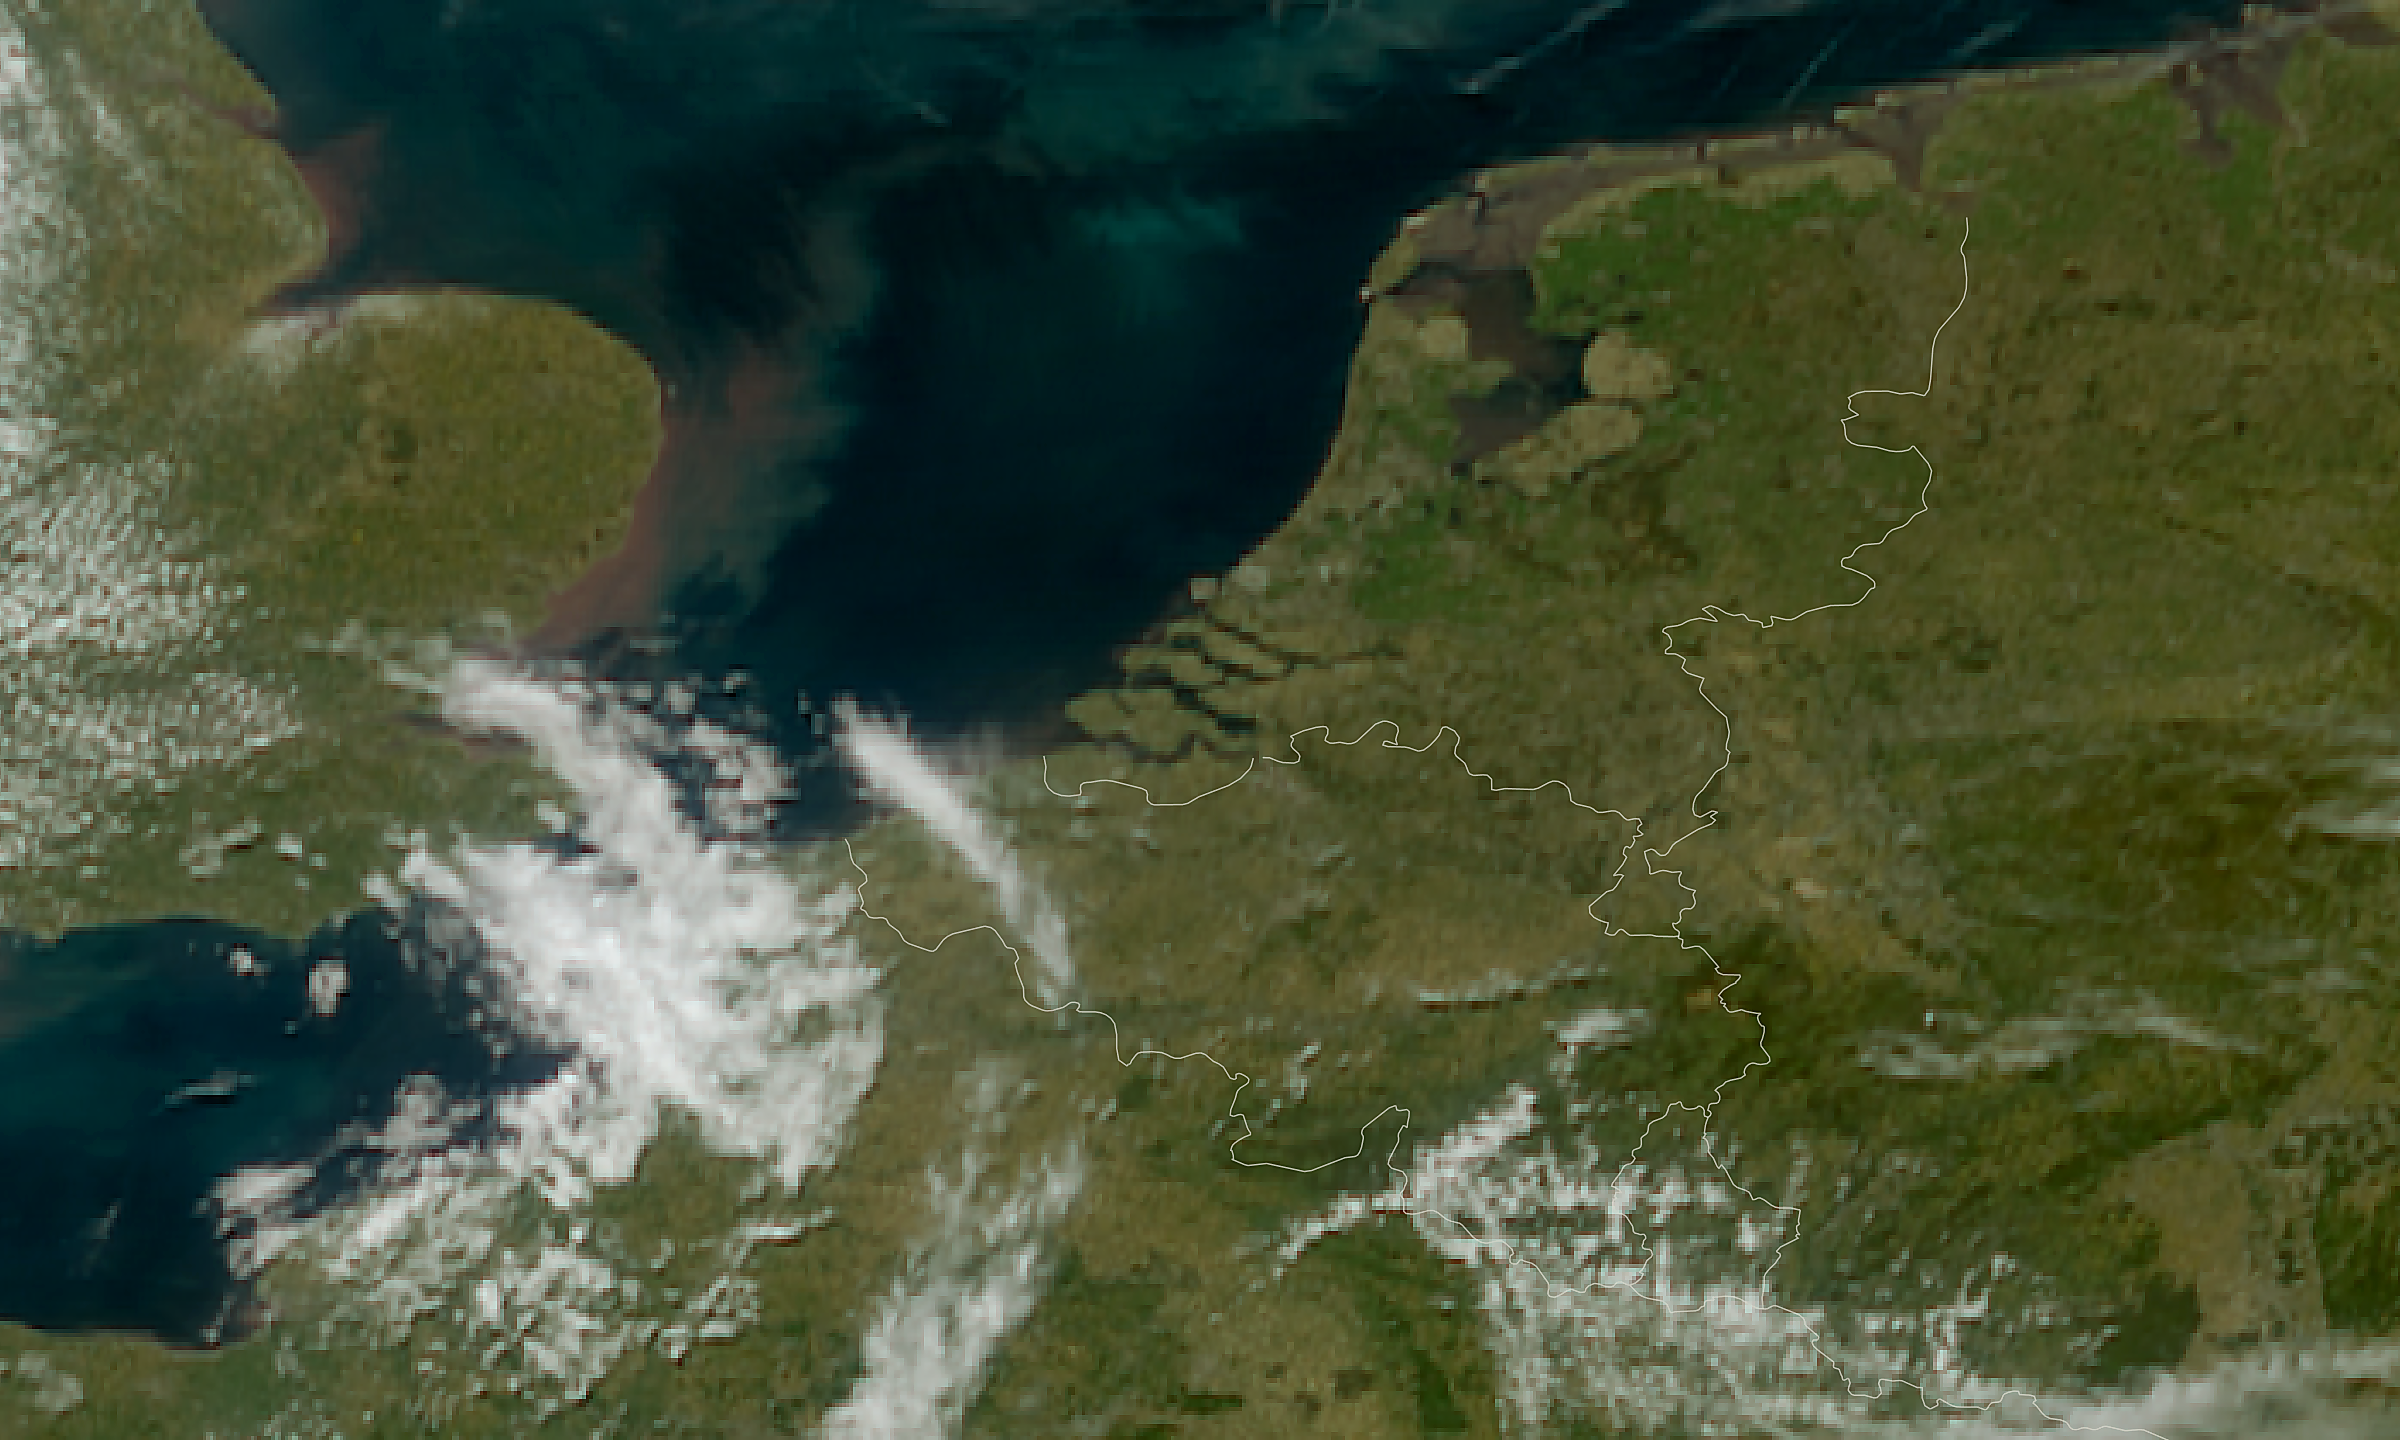
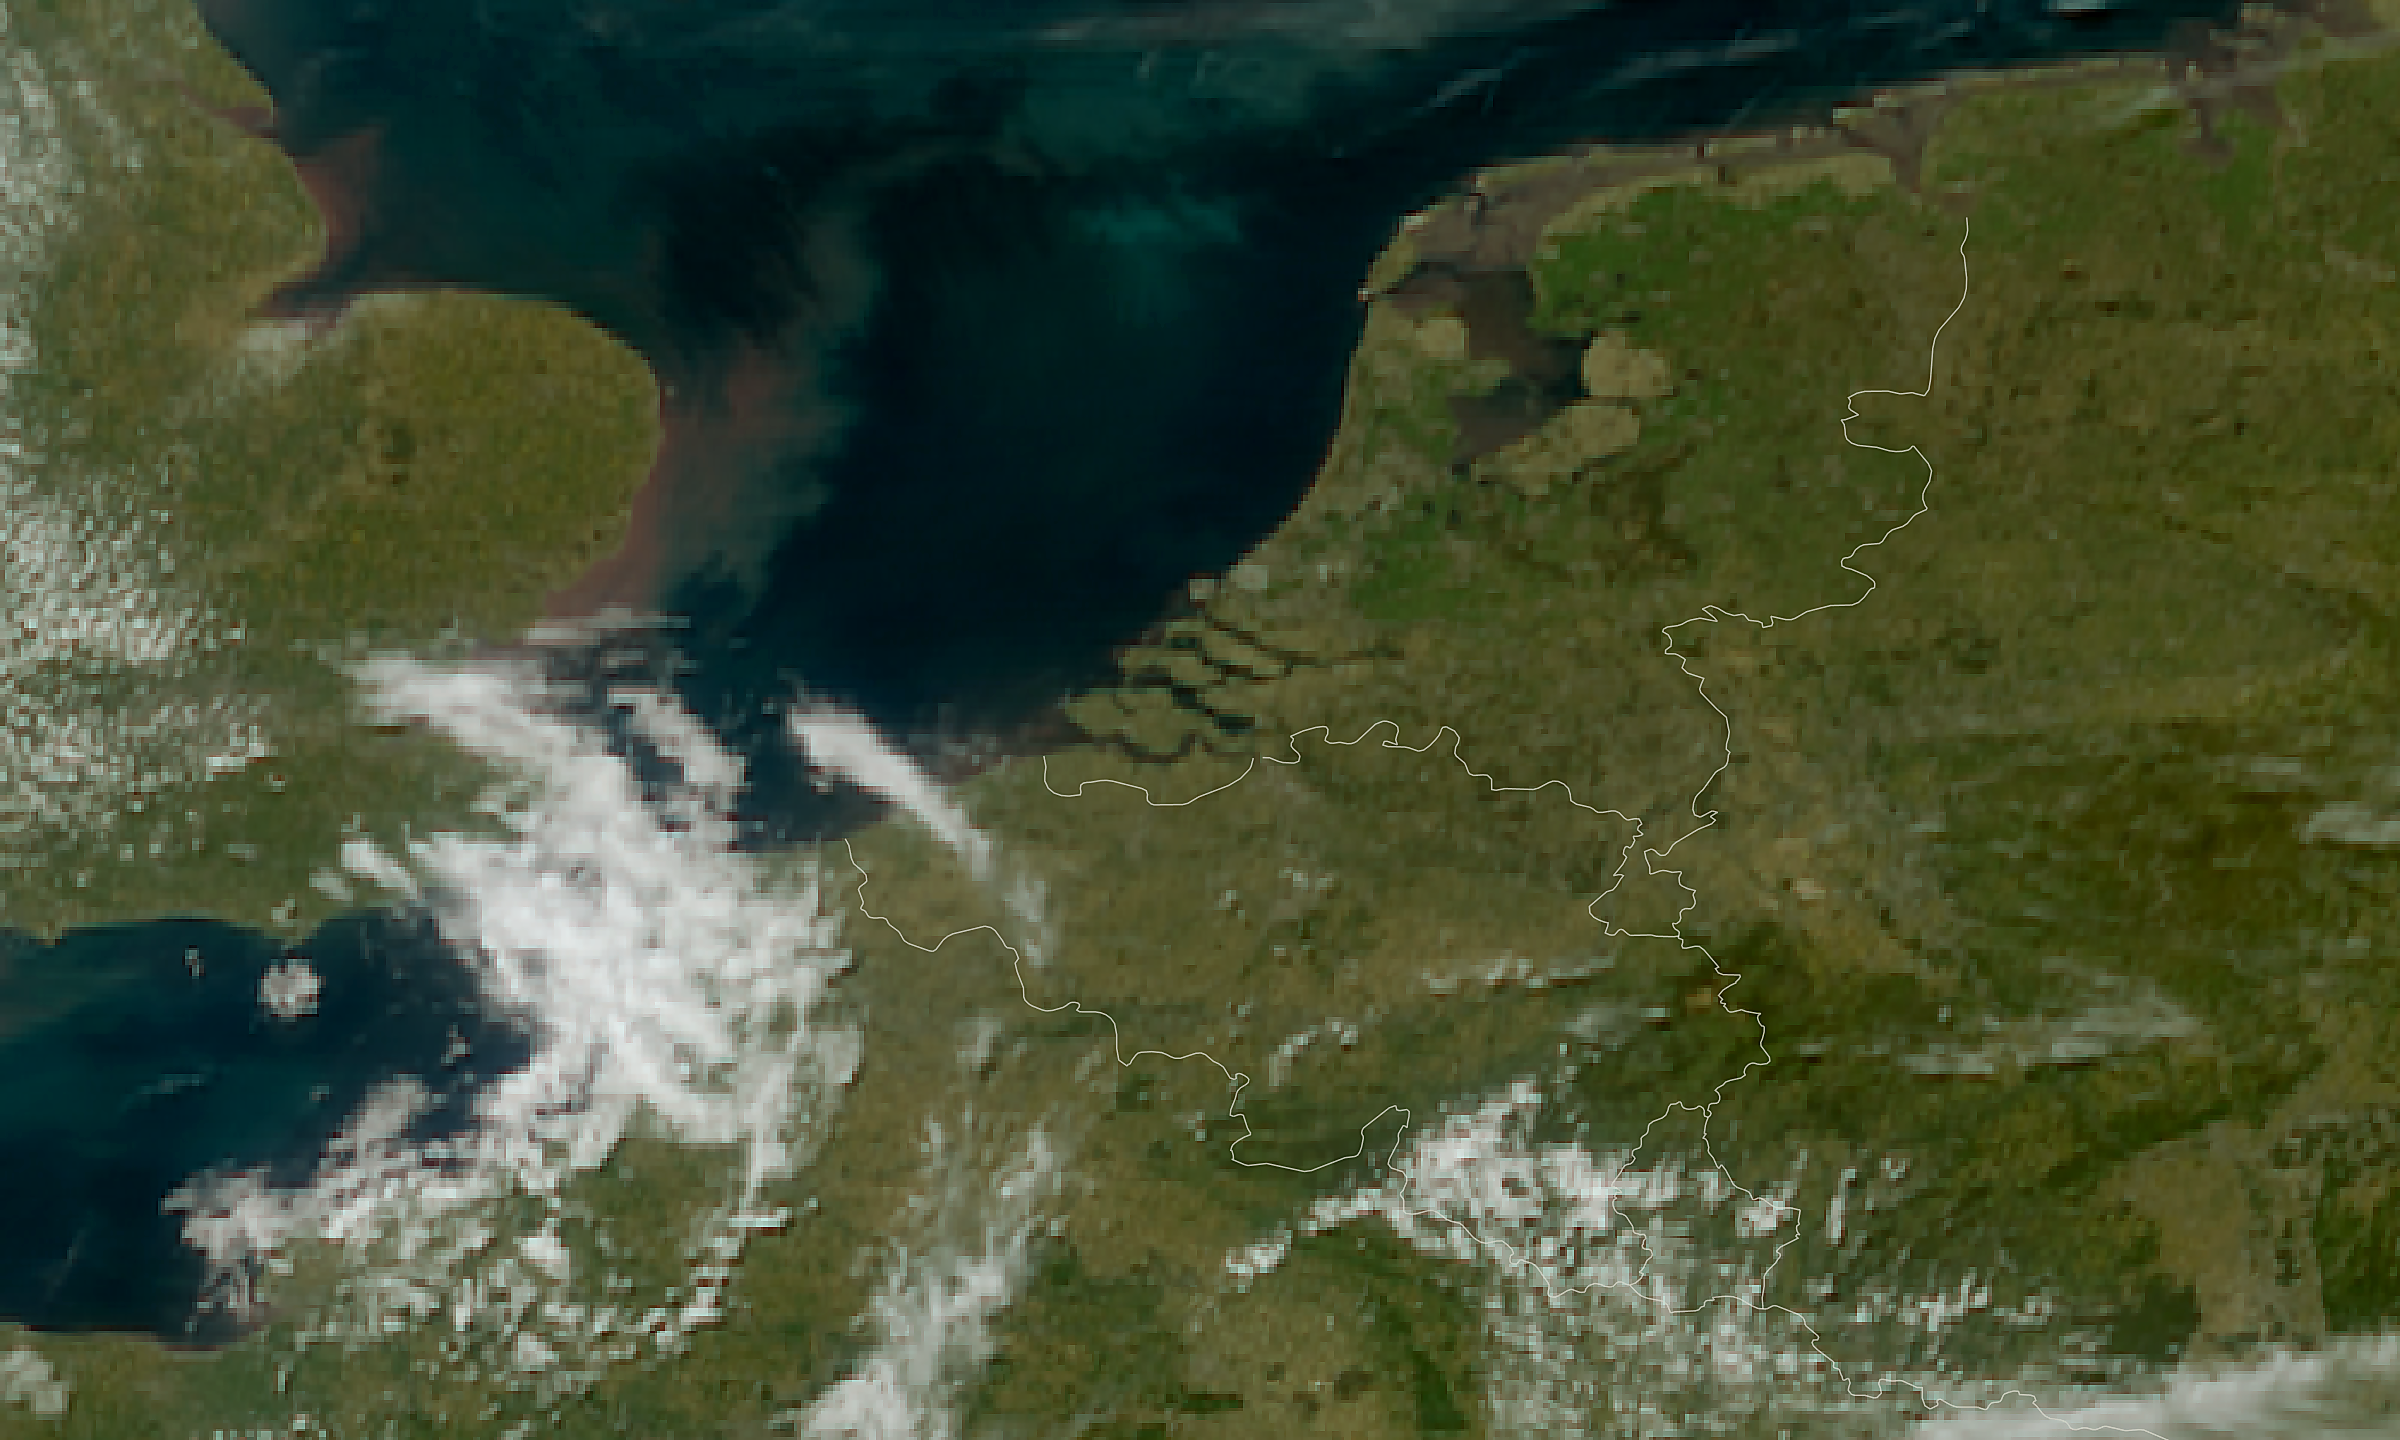
MTG Benelux satellietbeeld update 2026-04-28 15:45

diff --git a/mtg_benelux_meta.js b/mtg_benelux_meta.js
@@ -1,2 +1,2 @@
 const MTG_BENELUX_PRODUCT = "mtg_fd:rgb_truecolour";
-const MTG_BENELUX_TIJD = "2026-04-28T13:10:00Z";
+const MTG_BENELUX_TIJD = "2026-04-28T13:20:00Z";
